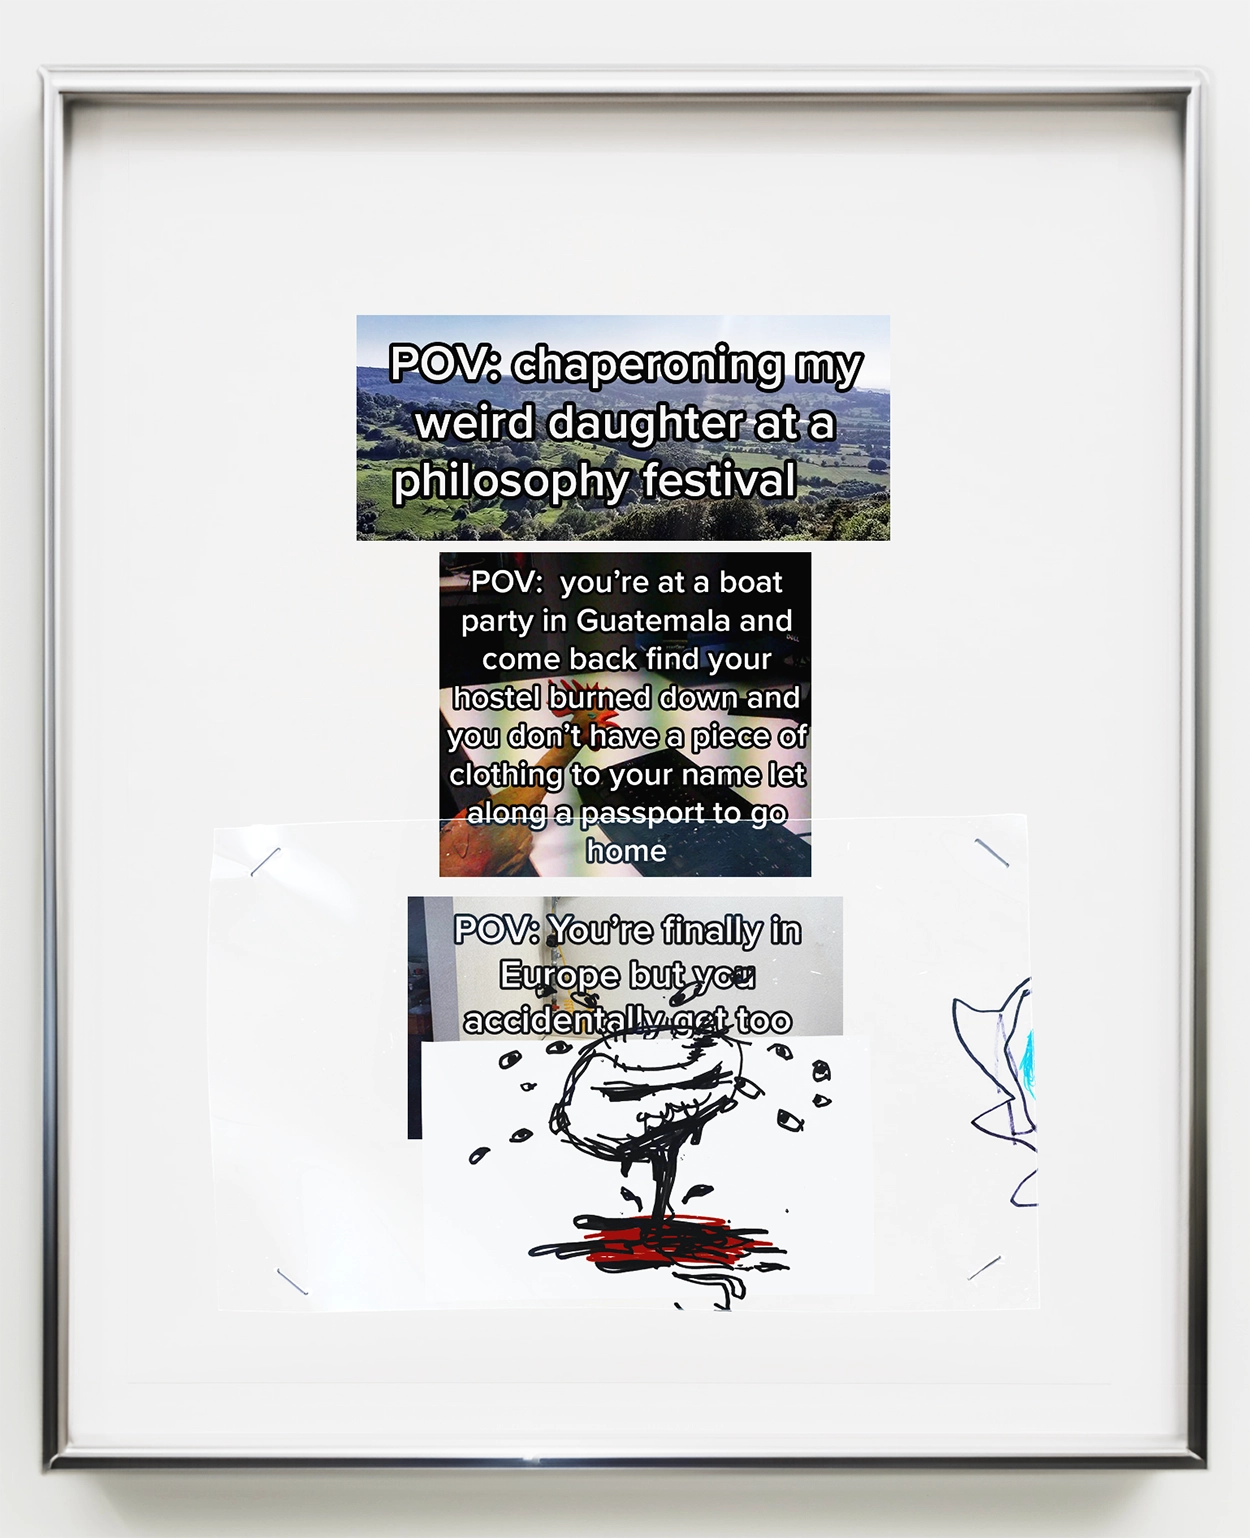
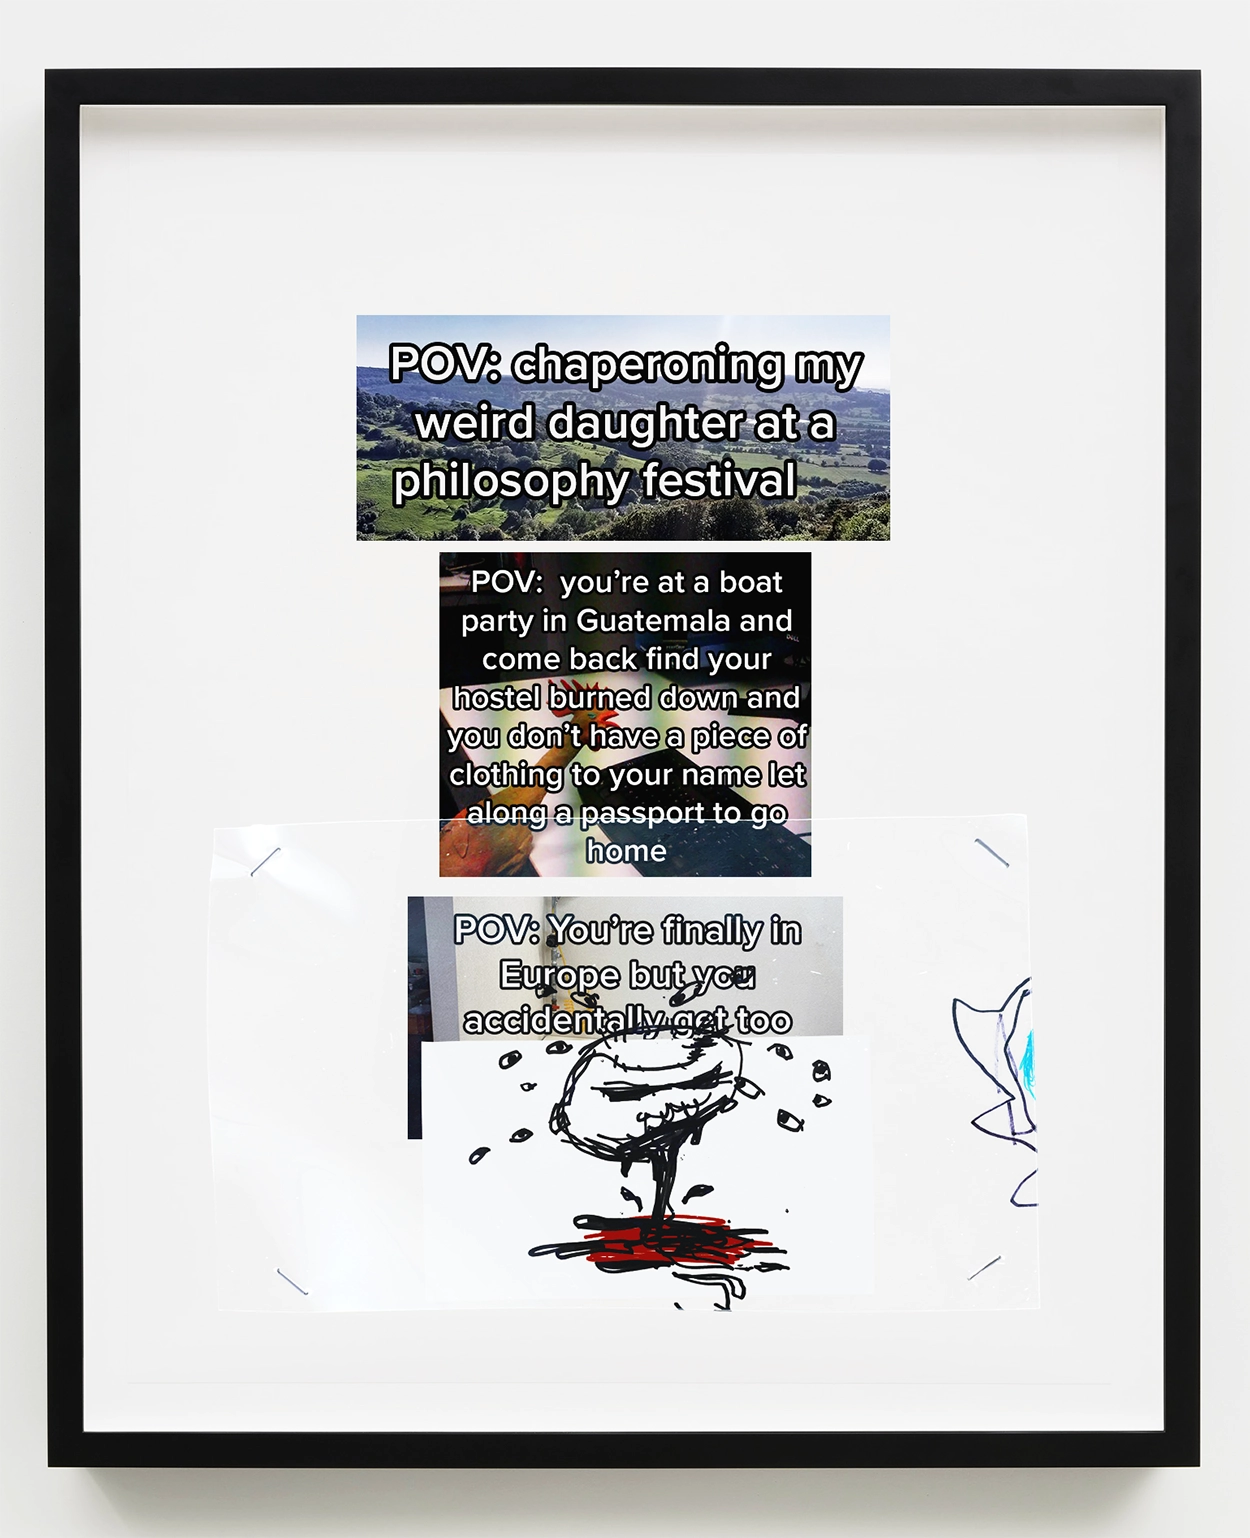
final HALO

Changed region(s): [[0.0312, 0.0312, 0.9672, 0.9675]]

diff --git a/src/index.md b/src/index.md
@@ -6,7 +6,7 @@ tags: page
 
 <figure>
 <a href="/assets/images/POV_large.webp"><img src="/assets/images/POV_large.webp" alt="POV" id="halo"></a>
-<figcaption>"Untitled," 2023. Inkjet print, acrylic paint, celluloid and staples on paper in aluminum frame</figcaption>
+<figcaption>"Untitled (POV)," 2023. Inkjet print, acrylic paint, permanent marker, celluloid and staples on paper in poweder coated aluminum frame</figcaption>
 </figure>
 
 ***
